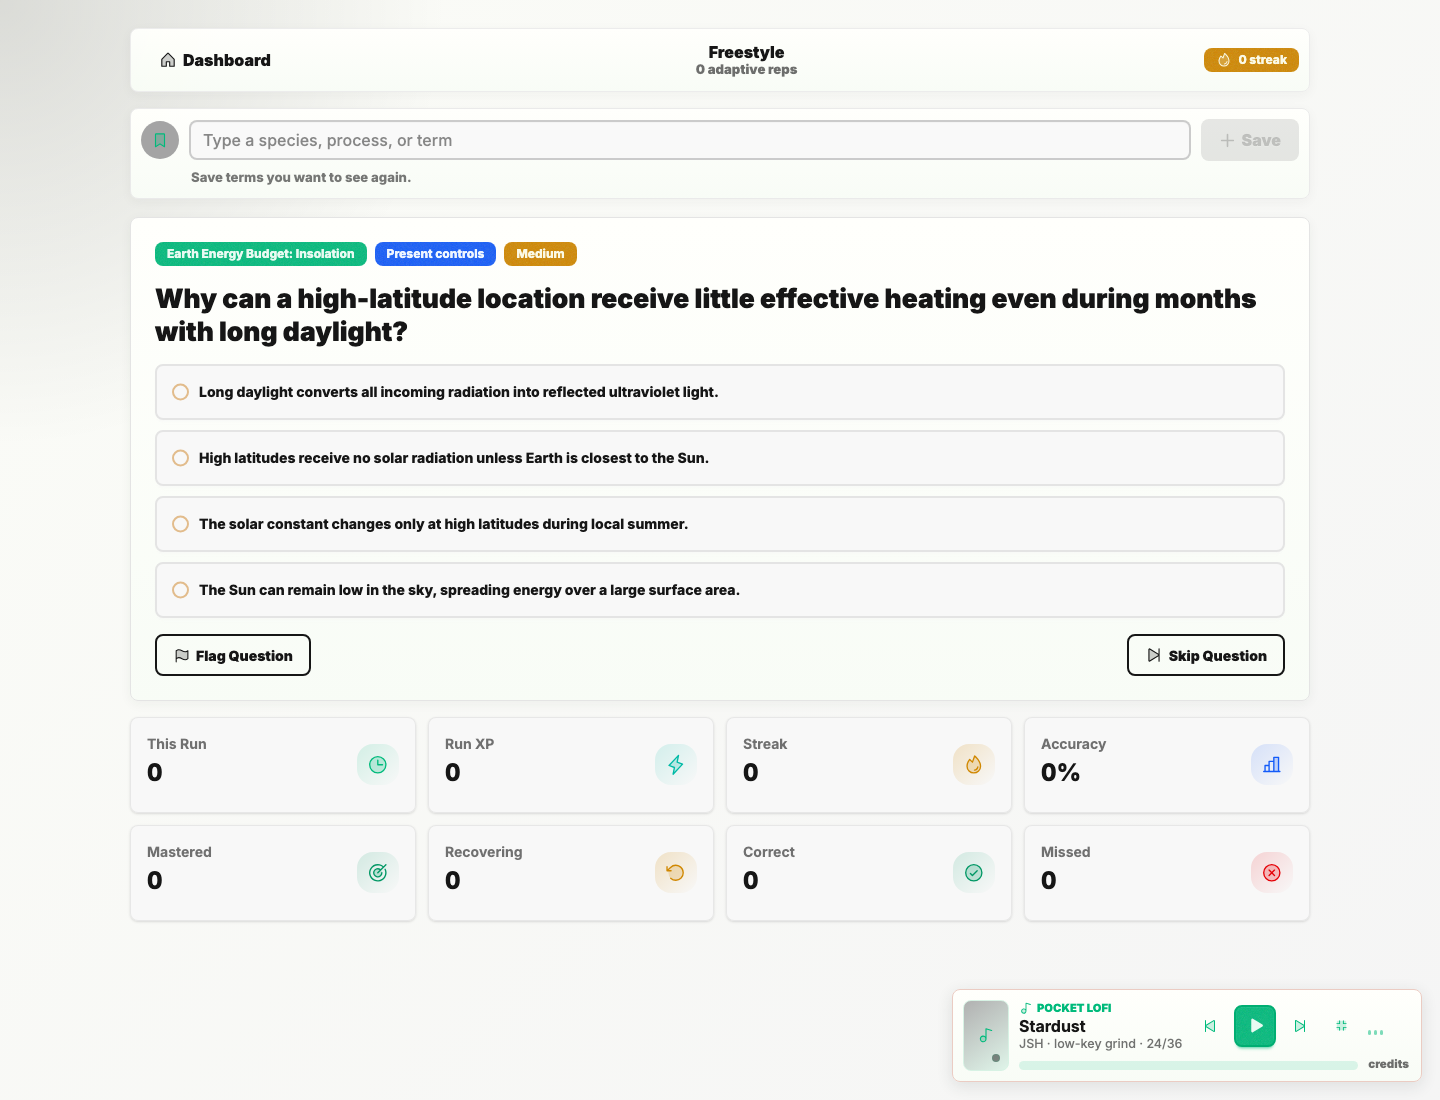
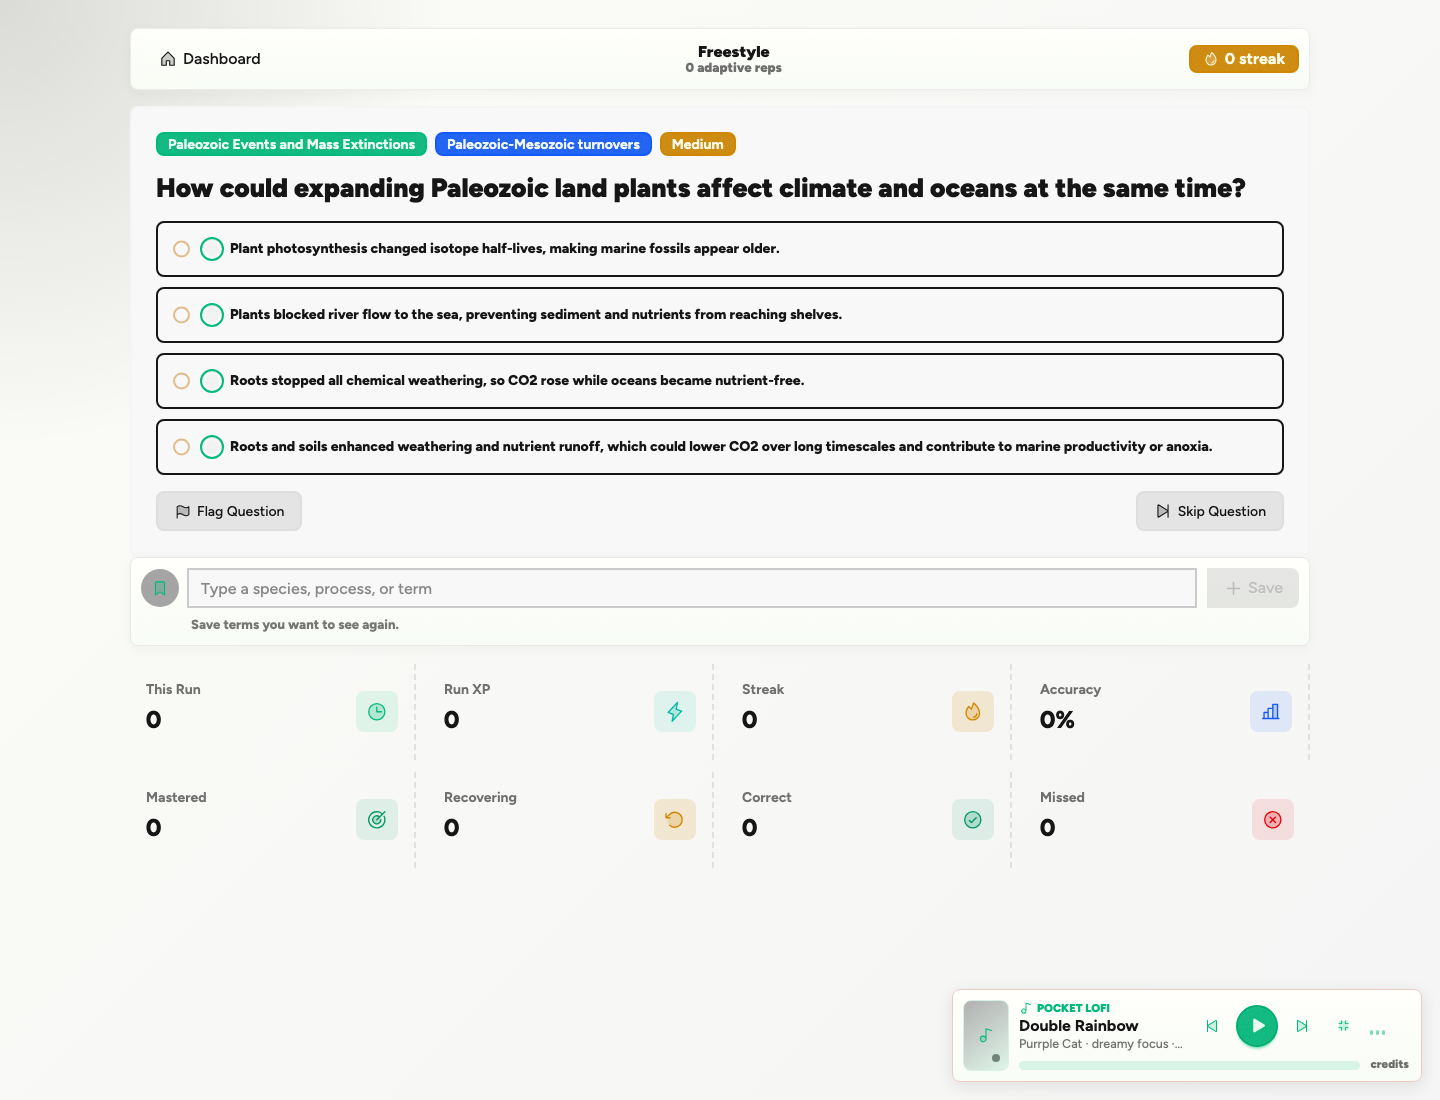
Refine dashboard components

diff --git a/src/App.tsx b/src/App.tsx
@@ -41,7 +41,6 @@ import {
   presetConfig,
   shuffle,
   shuffledMultipleChoice,
-  sourceSignature,
   withShuffledChoices
 } from "./lib/studySession";
 import { Dashboard } from "./features/dashboard/Dashboard";
@@ -79,35 +78,23 @@ function App() {
       id: crypto.randomUUID(),
       capturedAt: now
     };
-    const nextSourceSignature = sourceSignature(phraseSource);
-
     setProgress((current) => {
       const existing = current.phraseBank.find((item) => item.normalizedText === normalizedText);
-      const phraseBank = existing
-        ? current.phraseBank.map((item) => {
-            if (item.id !== existing.id) return item;
-            const hasSource = item.sources.some((itemSource) => sourceSignature(itemSource) === nextSourceSignature);
-            return {
-              ...item,
-              updatedAt: now,
-              captureCount: hasSource ? item.captureCount : item.captureCount + 1,
-              sources: hasSource ? item.sources : [...item.sources, phraseSource]
-            };
-          })
-        : [
-            {
-              id: crypto.randomUUID(),
-              text,
-              normalizedText,
-              createdAt: now,
-              updatedAt: now,
-              starred: false,
-              note: "",
-              sources: [phraseSource],
-              captureCount: 1
-            },
-            ...current.phraseBank
-          ];
+      if (existing) return current;
+      const phraseBank = [
+        {
+          id: crypto.randomUUID(),
+          text,
+          normalizedText,
+          createdAt: now,
+          updatedAt: now,
+          starred: false,
+          note: "",
+          sources: [phraseSource],
+          captureCount: 1
+        },
+        ...current.phraseBank
+      ];
       const nextProgress = { ...current, phraseBank };
       saveProgress(nextProgress);
       return nextProgress;

diff --git a/src/features/music/StudyMusicPlayer.tsx b/src/features/music/StudyMusicPlayer.tsx
@@ -25,9 +25,8 @@ export function StudyMusicPlayer({
 }) {
   const playerClassName = cx("music-player", state.playing && "is-playing", minimized && "is-minimized");
   const progress = state.duration > 0 ? Math.min(100, (state.currentTime / state.duration) * 100) : 0;
-  const handleSeek = (event: MouseEvent<HTMLButtonElement>) => {
-    const rect = event.currentTarget.getBoundingClientRect();
-    onSeek((event.clientX - rect.left) / rect.width);
+  const handleSeek = (event: MouseEvent<HTMLInputElement>) => {
+    onSeek(Number(event.currentTarget.value) / 100);
   };
 
   if (minimized) {
@@ -86,20 +85,24 @@ export function StudyMusicPlayer({
         <IconButton className="music-control" label="Next lofi track" onClick={onNext} tone="ghost">
           <SkipForward size={16} weight="duotone" />
         </IconButton>
-        {!state.playing && (
-          <IconButton
-            className="music-control music-minimize"
-            label="Minimize lofi focus music player"
-            onClick={onMinimize}
-            tone="ghost"
-          >
-            <CornersIn size={15} weight="duotone" />
-          </IconButton>
-        )}
+        <IconButton
+          className="music-control music-minimize"
+          label="Minimize lofi focus music player"
+          onClick={onMinimize}
+          tone="ghost"
+        >
+          <CornersIn size={15} weight="duotone" />
+        </IconButton>
       </div>
-      <button className="music-progress" onClick={handleSeek} aria-label="Seek lofi track" title="Seek lofi track">
-        <span style={{ width: `${progress}%` }} />
-      </button>
+      <input
+        className="range range-primary range-xs music-progress"
+        type="range"
+        value={Math.round(progress)}
+        max={100}
+        onChange={handleSeek}
+        aria-label="Seek lofi track"
+        title="Seek lofi track"
+      />
       <a className="music-source" href={state.sourceUrl} target="_blank" rel="noreferrer" title={`${state.license} source`}>
         {state.loading ? "loading" : state.error ?? "credits"}
       </a>

diff --git a/src/features/dashboard/Dashboard.tsx b/src/features/dashboard/Dashboard.tsx
@@ -22,7 +22,12 @@ const milestoneTone: Record<RewardTone, "success" | "warning" | "info" | "accent
   red: "error"
 };
 
-const mascotSrc = `${import.meta.env.BASE_URL}images/core-buddy.png`;
+const mascotByMood: Record<StudyGameStats["mood"], string> = {
+  steady: `${import.meta.env.BASE_URL}images/core-buddy-steady.png`,
+  warming: `${import.meta.env.BASE_URL}images/core-buddy-warming.png`,
+  stressed: `${import.meta.env.BASE_URL}images/core-buddy-stressed.png`,
+  locked: `${import.meta.env.BASE_URL}images/core-buddy-locked.png`
+};
 
 export function Dashboard({
   progress,
@@ -60,16 +65,16 @@ export function Dashboard({
       <PhraseQuickAdd onAddPhrase={onAddPhrase} phrases={phrases} variant="dock" />
 
       <section className="command-grid" aria-label="Study modes">
-        <Button tone="primary" size="lg" onClick={() => onStart("Mock Exam")} icon={<Timer size={19} weight="duotone" />}>
+        <Button tone="primary" onClick={() => onStart("Mock Exam")} icon={<Timer size={19} weight="duotone" />}>
           Mock Exam
         </Button>
-        <Button tone="accent" size="lg" onClick={() => onStart("Freestyle")} icon={<Shuffle size={19} weight="duotone" />}>
+        <Button tone="accent" onClick={() => onStart("Freestyle")} icon={<Shuffle size={19} weight="duotone" />}>
           Freestyle
         </Button>
-        <Button tone="secondary" size="lg" onClick={() => onStart("Quick Drill")} icon={<CheckCircle size={19} weight="duotone" />}>
+        <Button tone="secondary" onClick={() => onStart("Quick Drill")} icon={<CheckCircle size={19} weight="duotone" />}>
           Quick Drill
         </Button>
-        <Button size="lg" onClick={() => onStart("Weak Retake")} icon={<ArrowCounterClockwise size={19} weight="duotone" />}>
+        <Button onClick={() => onStart("Weak Retake")} icon={<ArrowCounterClockwise size={19} weight="duotone" />}>
           Weak Retake
         </Button>
       </section>
@@ -134,7 +139,7 @@ function DashboardHero({ game }: { game: StudyGameStats }) {
       </div>
       <div className="hero-buddy">
         <div className="mascot-frame">
-          <img src={mascotSrc} alt={`Core Buddy mood: ${game.moodLabel}`} />
+          <img src={mascotByMood[game.mood]} alt={`Core Buddy mood: ${game.moodLabel}`} />
         </div>
         <div>
           <p className="eyebrow">Core Buddy</p>
@@ -152,7 +157,7 @@ function StudySnapshot({ game }: { game: StudyGameStats }) {
       <StatTile icon={<Target weight="duotone" />} label="Prepared" value={<><CountUp value={game.prepScore} />%</>} tone="teal" />
       <StatTile icon={<ChartBar weight="duotone" />} label="Accuracy" value={<><CountUp value={game.accuracy} />%</>} tone="blue" />
       <StatTile icon={<Sparkle weight="duotone" />} label="Coverage" value={<><CountUp value={game.coverage} />%</>} tone="purple" />
-      <StatTile icon={<Fire weight="duotone" />} label="Missed" value={<CountUp value={game.missed} />} tone="amber" />
+      <StatTile icon={<Fire weight="duotone" />} label="Missed" value={<CountUp value={game.missed} />} tone="red" />
       <div className="achievement-row">
         <Badge tone="primary">{game.correct} correct across {multipleChoiceQuestions.length}</Badge>
         {game.milestones.map((milestone) => (

diff --git a/src/components/ui/StatTile.tsx b/src/components/ui/StatTile.tsx
@@ -4,18 +4,18 @@ import { cx } from "../../lib/classes";
 type StatTone = "teal" | "green" | "amber" | "blue" | "purple" | "red";
 
 const toneClass: Record<StatTone, string> = {
-  teal: "from-primary/15 text-primary",
-  green: "from-success/15 text-success",
-  amber: "from-warning/20 text-warning",
-  blue: "from-info/15 text-info",
-  purple: "from-accent/15 text-accent",
-  red: "from-error/15 text-error"
+  teal: "text-primary bg-primary/10",
+  green: "text-success bg-success/10",
+  amber: "text-warning bg-warning/15",
+  blue: "text-info bg-info/10",
+  purple: "text-accent bg-accent/10",
+  red: "text-error bg-error/10"
 };
 
 export function StatTile({ icon, label, value, tone = "teal" }: { icon: ReactNode; label: string; value: ReactNode; tone?: StatTone }) {
   return (
-    <div className="stat study-stat min-h-24 rounded-box border border-base-300/80 bg-base-100/85 p-4 shadow-sm">
-      <div className={cx("stat-figure rounded-2xl bg-gradient-to-br to-transparent p-2.5", toneClass[tone])}>{icon}</div>
+    <div className="stat study-stat min-h-24 p-4">
+      <div className={cx("stat-figure rounded-field p-2.5", toneClass[tone])}>{icon}</div>
       <div className="stat-title text-sm font-bold text-base-content/60">{label}</div>
       <div className="stat-value text-2xl tabular-nums text-base-content">{value}</div>
     </div>

diff --git a/src/features/phrases/PhraseQuickAdd.tsx b/src/features/phrases/PhraseQuickAdd.tsx
@@ -21,13 +21,13 @@ export function PhraseQuickAdd({
   const isDuplicate = normalized.length > 0 && phrases.some((phrase) => phrase.normalizedText === normalized);
   const isValid = canSavePhrase(value) && !isDuplicate;
   const helper =
-    cleaned.length === 0
+    savedText && !value
+      ? "Saved to your phrase bank."
+      : cleaned.length === 0
       ? "Save terms you want to see again."
       : isDuplicate
         ? "Already in your phrase bank."
-        : savedText === cleaned
-          ? "Saved to your phrase bank."
-          : "Ready to save.";
+        : "Ready to save.";
 
   const submitPhrase = (event: FormEvent<HTMLFormElement>) => {
     event.preventDefault();
@@ -42,12 +42,12 @@ export function PhraseQuickAdd({
       className={cx("phrase-quick-add", variant === "dock" && "is-dock", isDuplicate && "is-duplicate", savedText && !value && "is-saved")}
       onSubmit={submitPhrase}
     >
-      <div className="phrase-entry-row">
-        <span className="phrase-quick-icon">
+      <div className="phrase-entry-row join">
+        <span className="phrase-quick-icon join-item">
           <BookmarkSimple size={18} weight="duotone" />
         </span>
         <input
-          className={cx("input input-bordered min-w-0 flex-1 bg-base-100/85", isDuplicate && "input-warning")}
+          className={cx("input input-bordered join-item min-w-0 flex-1", isDuplicate && "input-warning")}
           value={value}
           onChange={(event) => {
             setValue(event.target.value);
@@ -59,7 +59,7 @@ export function PhraseQuickAdd({
           aria-invalid={isDuplicate}
           aria-label="Add phrase to bank"
         />
-        <Button tone="primary" disabled={!isValid} aria-label="Save phrase" icon={<Plus size={17} weight="bold" />} type="submit">
+        <Button className="join-item" tone="primary" disabled={!isValid} aria-label="Save phrase" icon={<Plus size={17} weight="bold" />} type="submit">
           Save
         </Button>
       </div>

diff --git a/src/features/practice/Exam.tsx b/src/features/practice/Exam.tsx
@@ -62,8 +62,6 @@ export function Exam({
         </Badge>
       </section>
 
-      <PhraseQuickAdd onAddPhrase={onAddPhrase} phrases={phrases} variant="dock" />
-
       <StudyCard
         key={question.id}
         className={cx("question-panel", feedback && (feedback.correct ? "panel-correct" : "panel-wrong"))}
@@ -93,18 +91,20 @@ export function Exam({
               <button
                 key={choice.id}
                 className={choiceClass(choice.id, question.correctChoiceId, answer.selectedChoiceId, Boolean(feedback))}
-                disabled={Boolean(feedback)}
+                aria-disabled={Boolean(feedback)}
                 onClick={() =>
-                  isFreestyle ? onFreestyleAnswer(question as MultipleChoiceQuestion, choice.id) : onAnswer(question.id, { selectedChoiceId: choice.id })
+                  !feedback &&
+                  (isFreestyle ? onFreestyleAnswer(question as MultipleChoiceQuestion, choice.id) : onAnswer(question.id, { selectedChoiceId: choice.id }))
                 }
               >
+                <span className="radio radio-primary radio-sm" aria-hidden="true" />
                 {choice.text}
               </button>
             ))}
           </div>
         ) : (
           <textarea
-            className="textarea textarea-bordered min-h-56 w-full bg-base-100/80"
+            className="textarea textarea-bordered min-h-56 w-full"
             value={answer.textAnswer ?? ""}
             onChange={(event) => onAnswer(question.id, { textAnswer: event.target.value })}
             placeholder="Draft your answer. You will self-check it against the rubric after submitting."
@@ -112,7 +112,7 @@ export function Exam({
         )}
 
         {isFreestyle && feedback && (
-          <div className={feedback.correct ? "feedback correct-feedback" : "feedback wrong-feedback"}>
+          <div className={feedback.correct ? "feedback alert alert-success alert-soft" : "feedback alert alert-error alert-soft"}>
             <div className="feedback-head">
               <strong>{feedback.correct ? "Correct" : "Wrong"}</strong>
               <span className="feedback-badges">
@@ -147,6 +147,8 @@ export function Exam({
         </div>
       </StudyCard>
 
+      <PhraseQuickAdd onAddPhrase={onAddPhrase} phrases={phrases} variant="dock" />
+
       {sessionStats && <SessionStatsPanel stats={sessionStats} />}
 
       {!isFreestyle && (
@@ -179,7 +181,7 @@ function SessionStatsPanel({ stats }: { stats: SessionRunStats }) {
 }
 
 function choiceClass(choiceId: string, correctChoiceId: string, selectedChoiceId: string | undefined, showFeedback: boolean) {
-  const classes = ["choice", "btn", "justify-start", "h-auto", "min-h-14", "border-base-300", "bg-base-100/85", "text-left"];
+  const classes = ["choice", "btn", "btn-outline", "justify-start", "h-auto", "min-h-14", "text-left"];
   if (selectedChoiceId === choiceId) classes.push("selected");
   if (showFeedback && choiceId === correctChoiceId) classes.push("correct-answer");
   if (showFeedback && selectedChoiceId === choiceId && choiceId !== correctChoiceId) classes.push("wrong-answer");

diff --git a/src/components/ui/ProgressBar.tsx b/src/components/ui/ProgressBar.tsx
@@ -8,10 +8,5 @@ interface ProgressBarProps {
 
 export function ProgressBar({ className, label, value }: ProgressBarProps) {
   const bounded = Math.min(100, Math.max(0, value));
-  return (
-    <div className={cx("study-progress", className)} aria-label={label}>
-      <progress className="progress progress-primary h-3 w-full" value={bounded} max={100} />
-      <span style={{ width: `${bounded}%` }} />
-    </div>
-  );
+  return <progress className={cx("progress progress-primary h-3 w-full", className)} value={bounded} max={100} aria-label={label} />;
 }

diff --git a/src/components/ui/Button.tsx b/src/components/ui/Button.tsx
@@ -15,8 +15,8 @@ const toneClass: Record<ButtonTone, string> = {
   secondary: "btn-secondary",
   accent: "btn-accent",
   ghost: "btn-ghost",
-  soft: "btn-outline",
-  danger: "btn-error btn-outline"
+  soft: "btn-soft",
+  danger: "btn-error"
 };
 
 const sizeClass: Record<ButtonSize, string> = {
@@ -29,7 +29,7 @@ const sizeClass: Record<ButtonSize, string> = {
 
 export function Button({ children, className, icon, size = "md", tone = "soft", type = "button", ...props }: ButtonProps) {
   return (
-    <button className={cx("btn study-btn", toneClass[tone], sizeClass[size], className)} type={type} {...props}>
+    <button className={cx("btn", toneClass[tone], sizeClass[size], className)} type={type} {...props}>
       {icon}
       {children}
     </button>

diff --git a/src/styles.css b/src/styles.css
@@ -1,4 +1,4 @@
-@import url("https://fonts.googleapis.com/css2?family=Fraunces:opsz,wght@9..144,700;9..144,800&family=Inter:wght@500;600;700;800;900&display=swap");
+@import url("https://fonts.googleapis.com/css2?family=Figtree:wght@500;600;700;800;900&display=swap");
 @import "tailwindcss";
 
 @plugin "daisyui" {
@@ -43,7 +43,7 @@
 :root {
   color: var(--color-base-content);
   background: var(--color-base-200);
-  font-family: "Inter", ui-sans-serif, system-ui, -apple-system, BlinkMacSystemFont, "Segoe UI", sans-serif;
+  font-family: "Figtree", ui-sans-serif, system-ui, -apple-system, BlinkMacSystemFont, "Segoe UI", sans-serif;
   font-synthesis: none;
   text-rendering: optimizeLegibility;
 }
@@ -74,7 +74,7 @@ body::before {
 }
 
 h1, h2, p { margin-top: 0; }
-h1 { font-size: clamp(2rem, 5vw, 3.55rem); font-weight: 850; letter-spacing: 0; line-height: 0.95; }
+h1 { font-size: clamp(2rem, 4vw, 3.2rem); font-weight: 850; letter-spacing: 0; line-height: 0.98; }
 h2 { font-size: 1.15rem; font-weight: 850; line-height: 1.25; }
 button, input, textarea { font: inherit; }
 

diff --git a/src/components/ui/Badge.tsx b/src/components/ui/Badge.tsx
@@ -21,7 +21,7 @@ const toneClass: Record<BadgeTone, string> = {
 
 export function Badge({ children, className, tone = "neutral", ...props }: BadgeProps) {
   return (
-    <span className={cx("badge badge-sm gap-1.5 border-0 px-3 py-3 font-extrabold", toneClass[tone], className)} {...props}>
+    <span className={cx("badge gap-1.5 font-bold", toneClass[tone], className)} {...props}>
       {children}
     </span>
   );

diff --git a/src/components/ui/StudyCard.tsx b/src/components/ui/StudyCard.tsx
@@ -12,7 +12,7 @@ export function StudyCard({ as: Component = "section", children, className, comp
   return (
     <Component
       className={cx(
-        "card study-card border border-base-300 bg-base-100 text-base-content",
+        "card card-border bg-base-100 text-base-content",
         interactive && "transition hover:border-primary",
         className
       )}

diff --git a/src/features/phrases/PhraseBankPanel.tsx b/src/features/phrases/PhraseBankPanel.tsx
@@ -52,7 +52,7 @@ export function PhraseBankPanel({
         <Badge tone="primary" className="badge-lg">{phrases.length}</Badge>
       </div>
 
-      <label className="input input-bordered flex items-center gap-2 bg-base-100/80">
+      <label className="input input-bordered flex items-center gap-2">
         <MagnifyingGlass size={16} className="text-base-content/55" />
         <input
           className="grow"